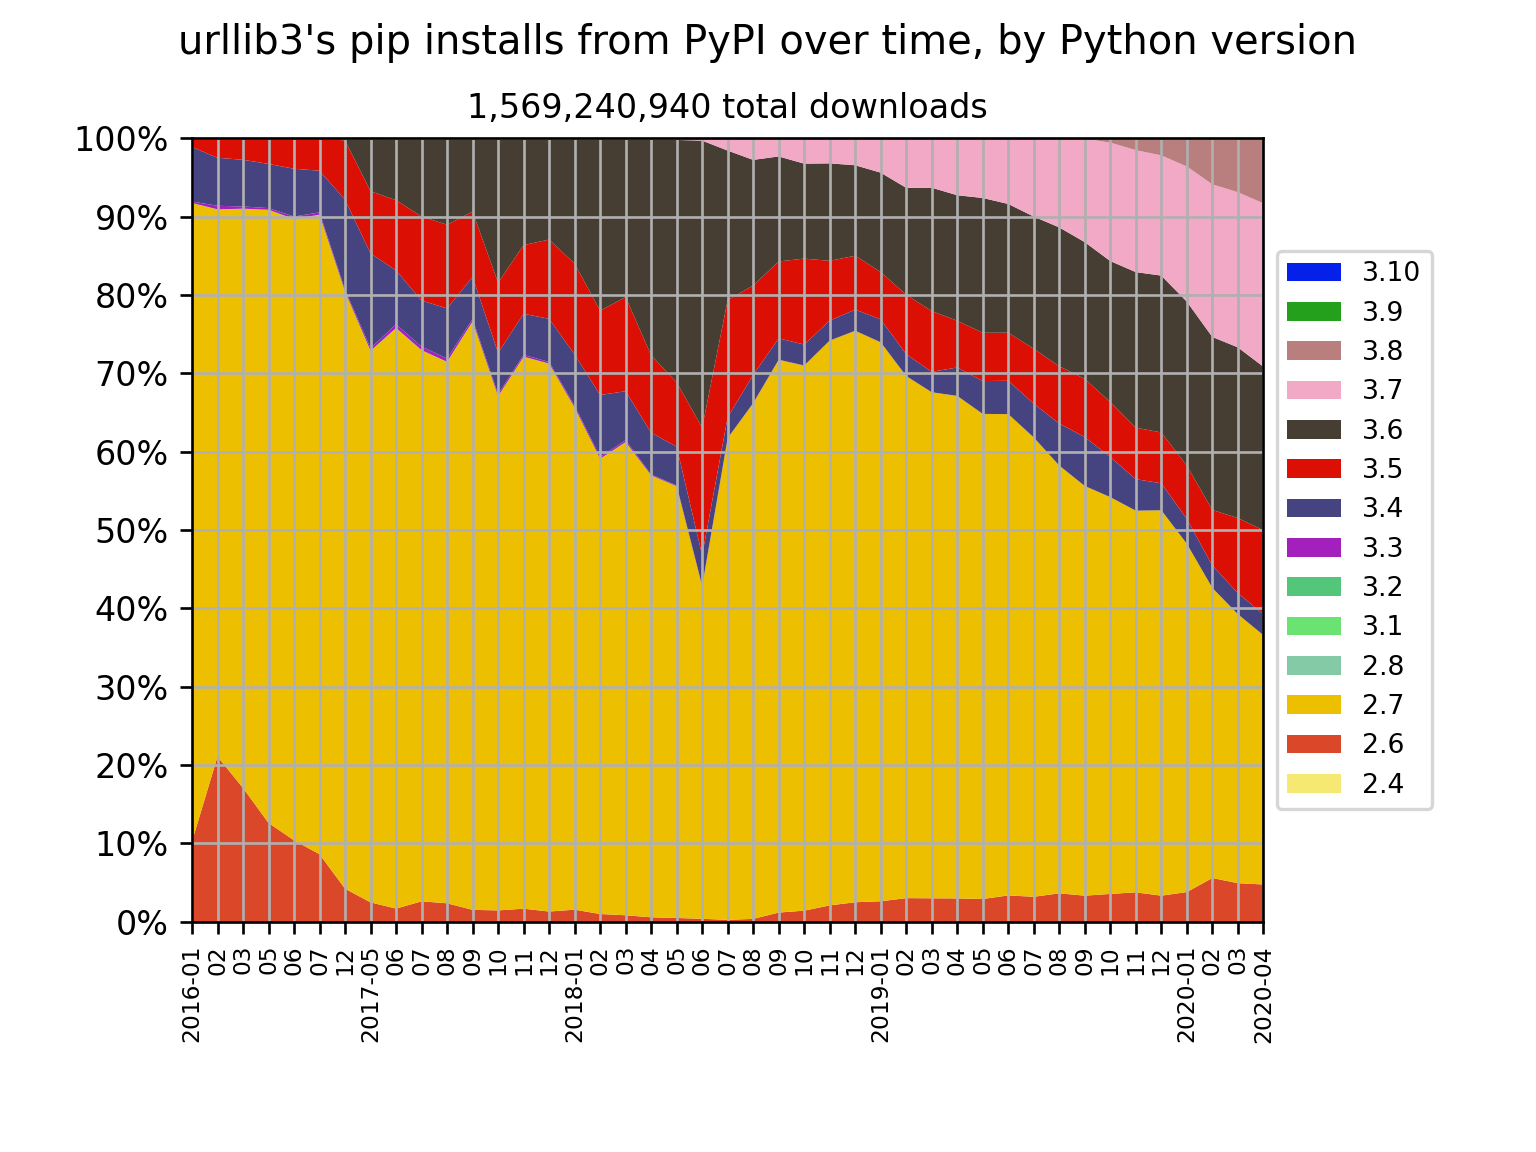
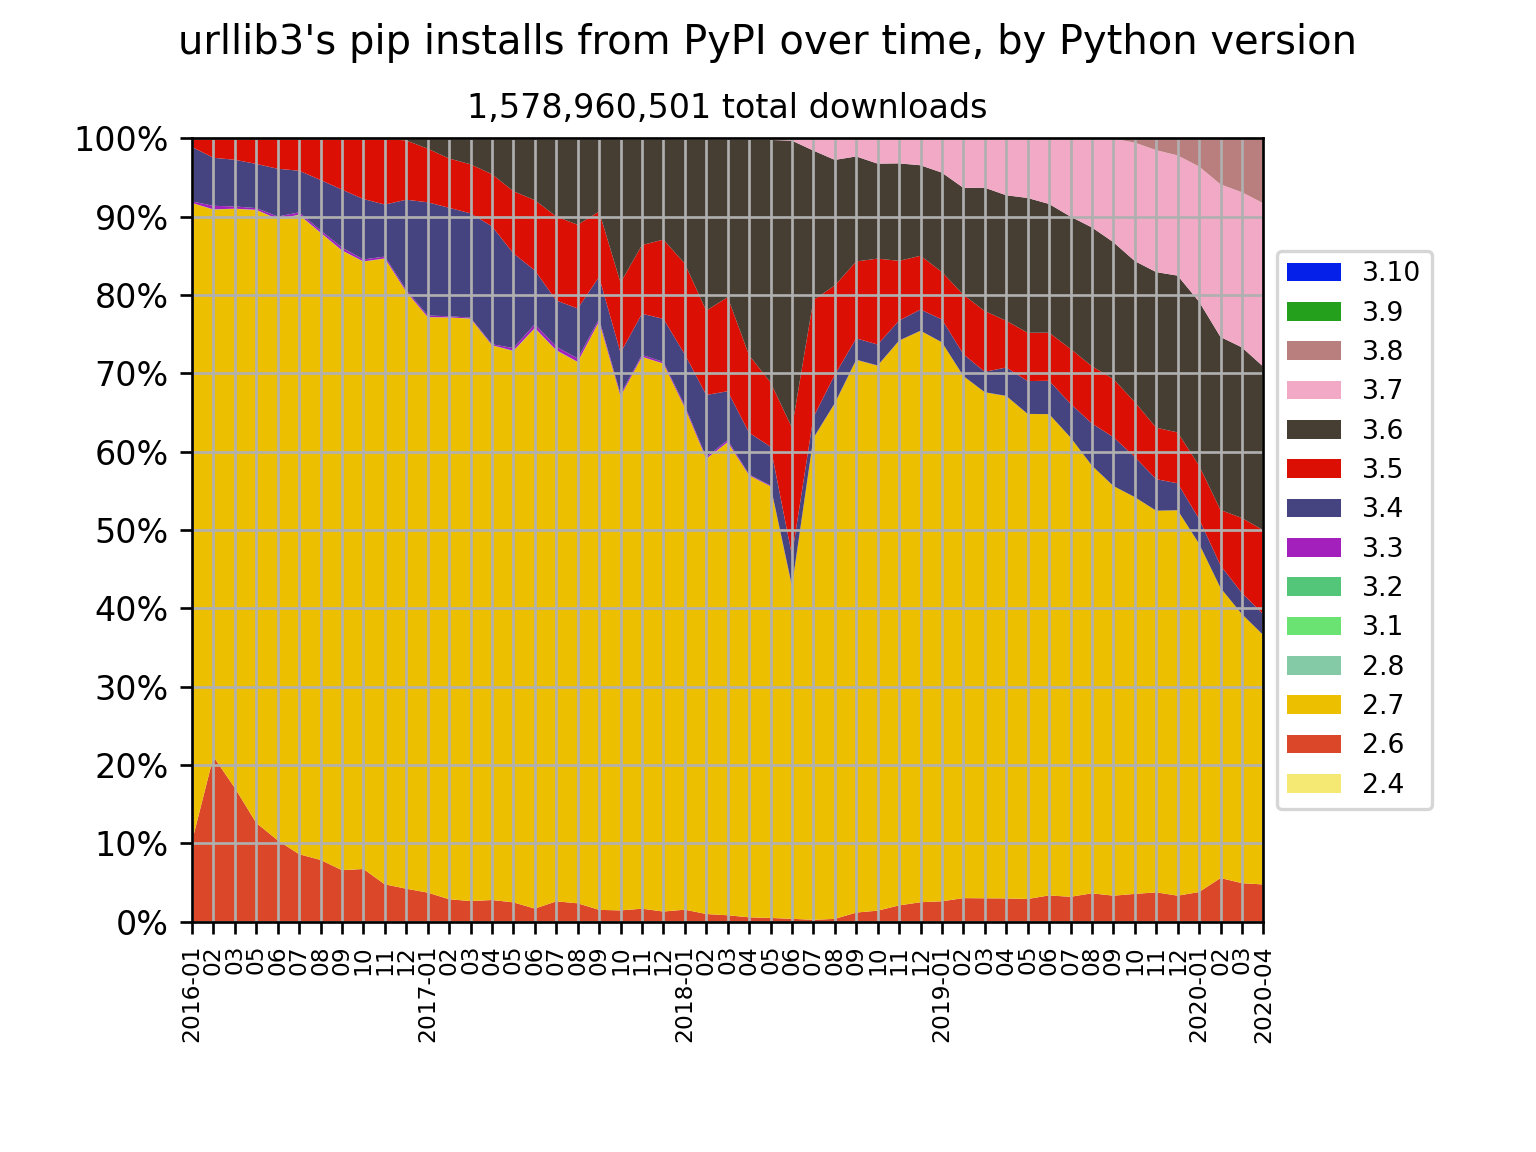
Add urllib3 data

Changed region(s): [[0.125, 0.0625, 0.8125, 0.9062]]

diff --git a/README.md b/README.md
@@ -26,7 +26,13 @@ in a spreadsheet, and can generate a chart using Matplotlib.
 Here the pip installs for all packages from the Python Package Index (PyPI),
 from January 2016 onwards:
 
-![Chart showing pip installs for Python 3 increasing from under 10% to around 35%](images/pip-install-all.png)
+![](images/pip-install-all.png)
+
+### [urllib3](https://github.com/urllib3/urllib3)
+
+HTTP client
+
+![](images/pip-install-urllib3.png)
 
 ### [pip](https://github.com/pypa/pip)
 
